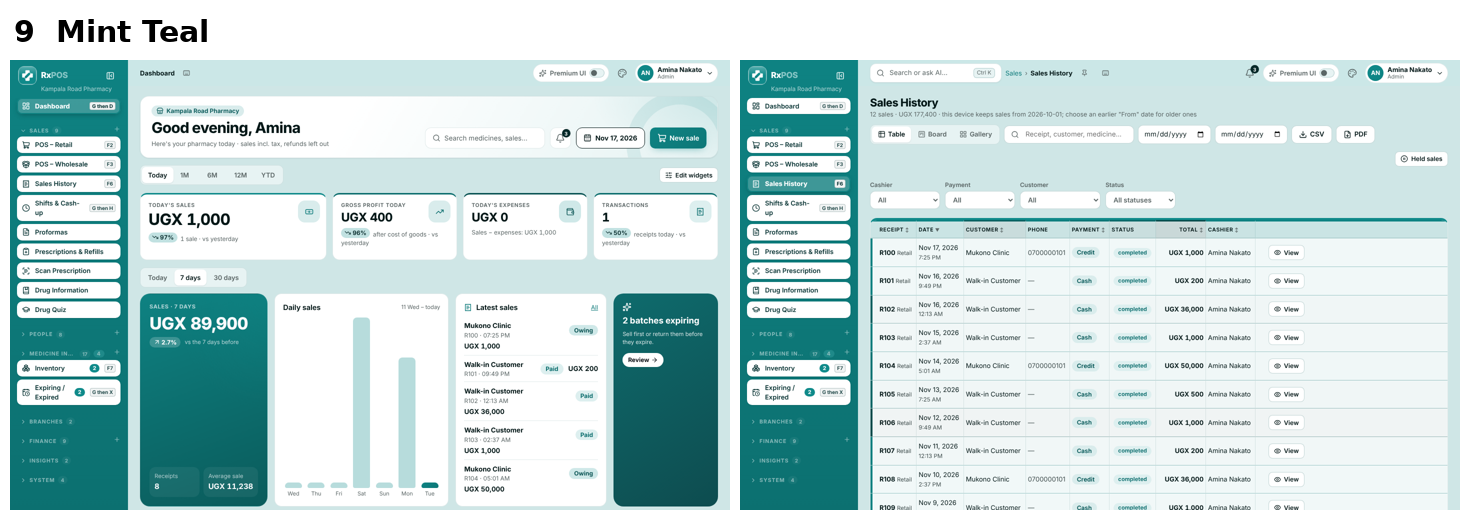
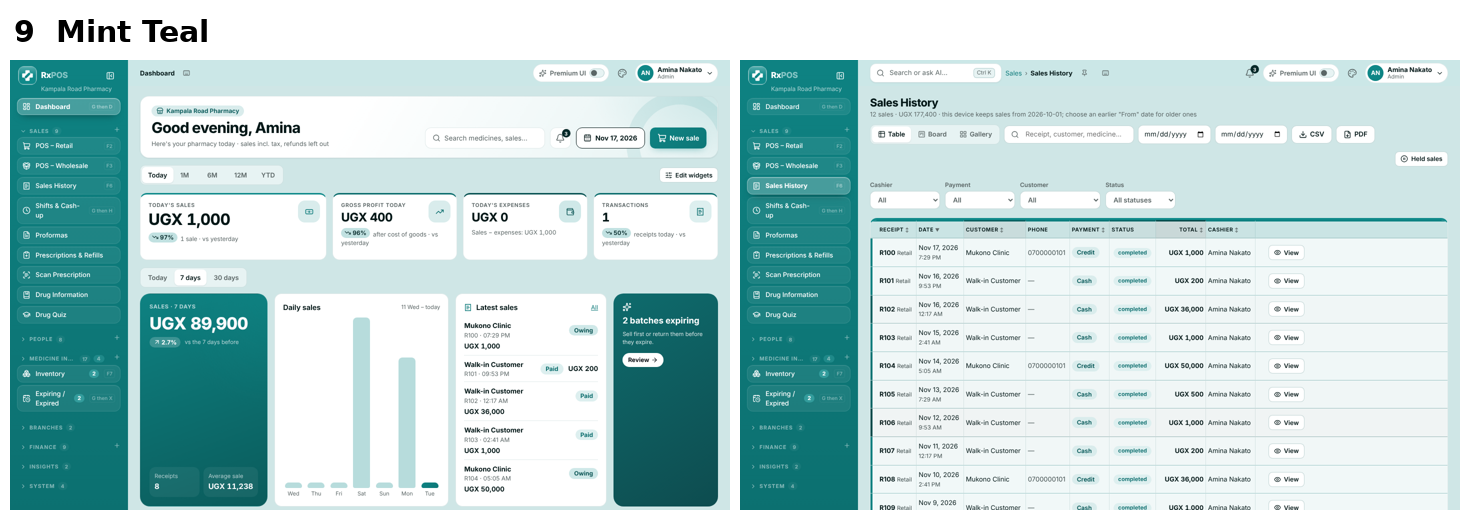
Menu pages back to the menu colour as light soft-glass buttons; the open page a brighter frosted button
Claude-Session: https://claude.ai/code/session_015uMCYZdrYXjtxk4scNeyiP

diff --git a/src/styles/duotone.css b/src/styles/duotone.css
@@ -6,21 +6,6 @@
 @media screen {
   /* the menu: the active page and its bar in the theme's strong colour */
   :root[data-palette] .sidebar nav a.active::before { background: var(--primary); }
-  :root[data-palette][data-sidebar='dark'] .sidebar nav a.active svg { color: color-mix(in srgb, var(--primary) 70%, #fff); }
-  :root[data-palette][data-sidebar='dark'] .sidebar nav a.active { background: color-mix(in srgb, var(--primary) 26%, transparent); }
-  :root[data-palette][data-sidebar='dark'][data-palette$='blue'] .sidebar nav a.active,
-  :root[data-palette][data-sidebar='dark'][data-palette='forest-green'] .sidebar nav a.active,
-  :root[data-palette][data-sidebar='dark'][data-palette='lavender'] .sidebar nav a.active,
-  :root[data-palette][data-sidebar='dark'][data-palette='mint-teal'] .sidebar nav a.active,
-  :root[data-palette][data-sidebar='dark'][data-palette='sunny-orange'] .sidebar nav a.active { background: rgba(255, 255, 255, .2); color: #fff; }
-  :root[data-palette][data-sidebar='dark'][data-palette$='blue'] .sidebar nav a.active::before,
-  :root[data-palette][data-sidebar='dark'][data-palette='forest-green'] .sidebar nav a.active::before,
-  :root[data-palette][data-sidebar='dark'][data-palette='lavender'] .sidebar nav a.active::before,
-  :root[data-palette][data-sidebar='dark'][data-palette='mint-teal'] .sidebar nav a.active::before { background: #fff; }
-  :root[data-palette][data-sidebar='dark'][data-palette$='blue'] .sidebar nav a.active svg,
-  :root[data-palette][data-sidebar='dark'][data-palette='forest-green'] .sidebar nav a.active svg,
-  :root[data-palette][data-sidebar='dark'][data-palette='lavender'] .sidebar nav a.active svg,
-  :root[data-palette][data-sidebar='dark'][data-palette='mint-teal'] .sidebar nav a.active svg { color: #fff; }
   :root[data-palette] .sidebar .count, :root[data-palette] .mega-item .count, :root[data-palette] .top-pill .count { background: color-mix(in srgb, var(--primary) 85%, #fff); color: var(--on-accent); }
   :root[data-palette] .avatar { background: linear-gradient(135deg, var(--primary), var(--sidebar)); }
   :root[data-palette] .brand-accent, :root[data-palette] .auth-hero h1 em, :root[data-palette] .auth-hero li svg { color: var(--primary); }
@@ -95,18 +80,21 @@
 
   :root[data-palette][data-sidebar='light'] .bento-hero { background: radial-gradient(120% 90% at 100% 0%, color-mix(in srgb, var(--sidebar) 30%, transparent), transparent 60%), linear-gradient(160deg, var(--primary), color-mix(in srgb, var(--primary) 70%, #000)); }
   :root[data-palette] .bento-hero :is(.bento-delta, .bento-delta.up, .bento-delta.down) { background: rgba(255, 255, 255, .2); color: #fff; }
-  /* the menu's pages as white buttons with dark words (the owner's request, 17 Nov 2026); the open one ringed and lit
-     in the brand colour */
-  :root[data-palette] .sidebar nav a { background: #ffffff; color: var(--menu-ink); margin: 0 4px 5px; border-radius: 10px; font-weight: 600;
-    box-shadow: 0 1px 2px rgba(0, 0, 0, .12); }
-  :root[data-palette] .sidebar nav a svg { color: var(--menu-ink); }
-  :root[data-palette] .sidebar nav a:hover { background: #f1f4f8; color: var(--menu-ink); padding-left: 10px; }
-  :root[data-palette] .sidebar nav a.active, :root[data-palette][data-sidebar] .sidebar nav a.active { background: #ffffff; color: var(--menu-ink); font-weight: 750;
-    box-shadow: inset 0 0 0 2px var(--menu-lit), 0 4px 12px -4px rgba(0, 0, 0, .35); }
-  :root[data-palette] .sidebar nav a.active svg, :root[data-palette][data-sidebar] .sidebar nav a.active svg { color: var(--menu-lit); }
+  /* the menu's pages as light, soft-glass buttons (the owner's review, 17 Nov 2026): a faint see-through fill with a
+     soft edge on the menu colour; the open page a brighter frosted button with a gentle lift */
+  :root[data-palette] .sidebar nav a { margin: 0 4px 4px; border-radius: 12px; background: rgba(255, 255, 255, .07); border: 1px solid rgba(255, 255, 255, .10);
+    box-shadow: inset 0 1px 0 rgba(255, 255, 255, .08); transition: background .15s, box-shadow .15s; }
+  :root[data-palette] .sidebar nav a:hover { background: rgba(255, 255, 255, .14); }
+  :root[data-palette] .sidebar nav a.active, :root[data-palette][data-sidebar] .sidebar nav a.active { background: rgba(255, 255, 255, .24); color: #ffffff; font-weight: 700;
+    border-color: rgba(255, 255, 255, .32); box-shadow: inset 0 1px 0 rgba(255, 255, 255, .35), 0 8px 18px -10px rgba(0, 0, 0, .55); }
+  :root[data-palette] .sidebar nav a.active svg, :root[data-palette][data-sidebar] .sidebar nav a.active svg { color: #ffffff; }
   :root[data-palette] .sidebar nav a.active::before, :root[data-palette][data-sidebar] .sidebar nav a.active::before { display: none; }
-  :root[data-palette] .sidebar nav a kbd { color: var(--menu-ink); border-color: color-mix(in srgb, var(--menu-ink) 25%, transparent); background: color-mix(in srgb, var(--menu-ink) 6%, #fff); opacity: 1; }
-  :root[data-palette] .sidebar nav a .count { background: var(--primary); color: var(--on-accent); }
+  /* light menus (Lime, Sage): the same glass, whiter, with the menu's dark words */
+  :root[data-palette][data-sidebar='light'] .sidebar nav a { background: rgba(255, 255, 255, .32); border-color: rgba(255, 255, 255, .5); box-shadow: inset 0 1px 0 rgba(255, 255, 255, .6); }
+  :root[data-palette][data-sidebar='light'] .sidebar nav a:hover { background: rgba(255, 255, 255, .5); }
+  :root[data-palette][data-sidebar='light'] .sidebar nav a.active { background: rgba(255, 255, 255, .78); color: var(--sidebar-text); border-color: #ffffff;
+    box-shadow: inset 0 1px 0 #ffffff, 0 8px 18px -10px rgba(0, 0, 0, .35); }
+  :root[data-palette][data-sidebar='light'] .sidebar nav a.active svg { color: var(--sidebar-text); }
 
   /* the page and its cards: colour 2 under, white cards over */
   :root[data-palette] body { background-image: none; }
